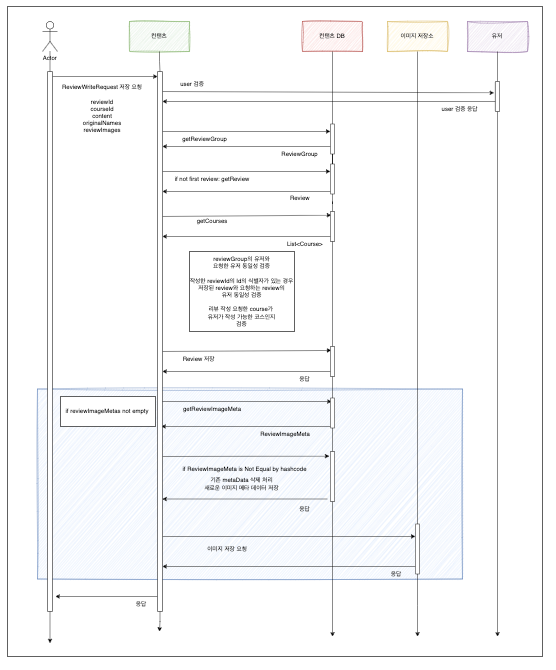
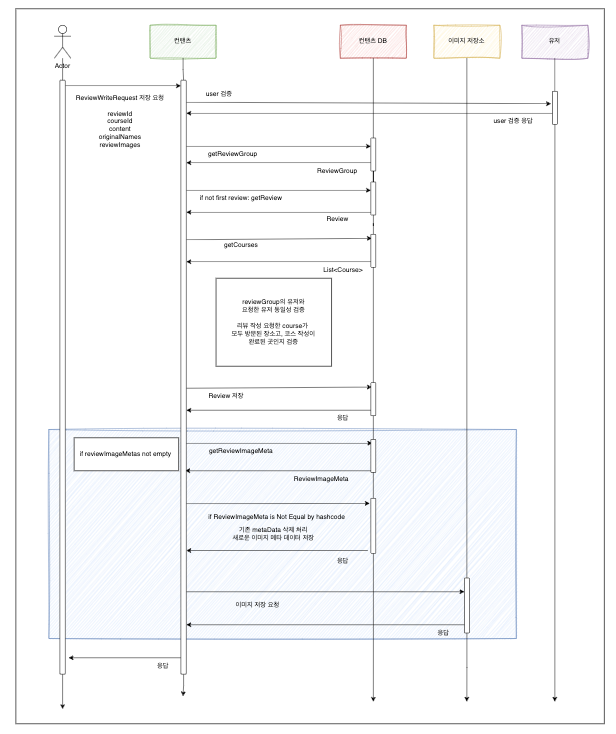
[Docs] DPLC-058: 코스에 유저 정보 제거에 따른 리드미 수정 (#60)

Changed region(s): [[0.0, 0.0, 0.9784, 0.9851], [0.0306, 0.9552, 0.9784, 1.0], [0.0612, 0.9254, 0.0917, 0.9552]]

diff --git a/readme/ReviewWrite.md b/readme/ReviewWrite.md
@@ -1,6 +1,222 @@
 # 리뷰 작성을 설명해요.
 
 ## 1. 배경
+- 유저가 데이트 코스를 등록한 후, 하나의 데이트 코스 그룹을 모두 방문하면 리뷰를 작성할 수 있어요!
+- 리뷰는 하나의 데이트 코스 그룹의 코스 단위별로 작성할 수 있어요!.
+- 리뷰는 사진들과 컨텐츠(글)로 구성되며, 유저는 글과 사진을 업로드 할 수 있어요!
 
 ## 2. 리뷰 작성 플로우
 ![img.png](image/ReviewWriteFlow.png)
+
+## 3. 리뷰 작성 플로우 설명
+- 유저는 글과 내용을 작성하여 요청해요.
+- 서버에서는 다음의 절차로 유저의 리뷰 작성 요청을 검증하고 저장해요.
+  - 정상 유저를 검증해요(유저 서버로 유저의 상태를 요청한 후, 정상 유저만 플로우가 진행돼요!)
+  - 리뷰는 작성 시점에 식별자가 생성이 돼요. 따라서, reviewId는 존재하거나 하지 않을 수 있어요.
+  - 리뷰는 데이트 코스와 1:1로 매핑이 돼요. 이를 활용하여 클라이언트로부터 courseId를 받아서, 현재 리뷰가 있는지 없는지를 파악해요.
+  - 만약 기존에 작성한 리뷰가 있다면 업데이트하고, 없다면 새로 저장해요.
+  - 리뷰 이미지는 최대 10MB 까지 저장할 수 있어요. 유저가 작성한 이미지를 SHA-256으로 해시한 후, 해시코드를 메타 데이터에 저장해요.
+    - reviewImageMeta는 리뷰를 수정할 떄마다, 이미지를 매번 덮어쓰기 하는 것이 부담이 되었어요.
+    - 따라서, 유저가 리뷰를 편집하면 기존에 저장된 reviewId, sequence(사진의 순서), hashCode(이미지의 해시코드)를 비교하여 모든 값이 동일하면 덮어쓰지 않도록 하였어요.
+  - 리뷰 이미지는 정의한 이미지 저장소(S3를 사용할 예정이에요)로 저장이 돼요.
+
+## 4. 코드 작성 - 도메인 정의
+``` kotlin
+    data class Review(
+        val reviewId: Long,
+        val userId: Long,
+        val reviewGroupId: Long,
+        val courseId: Long,
+        val content: String,
+        val createdAt: LocalDateTime = LocalDateTime.now(),
+        val modifiedAt: LocalDateTime = LocalDateTime.now(),
+    )
+```
+- Review는 식별자와, 유저 식별자, 리뷰 그룹의 식별자, 작성하는 코스의 식별자, 리뷰 내용으로 구성돼요.
+
+
+``` kotlin
+    data class ReviewImageMeta(
+        val sequence: Int,
+        val reviewId: Long,
+        val originalName: String,
+        val reviewImageHashCode: Int,
+        val reviewImageId: Long,
+        val rename: String = "${RENAME_DEFAULT}_${UUID.randomUUID()}_${originalName.parseExtension()}",
+        val imageUrl: String = "/$reviewId/$sequence/$rename",
+    )
+```
+- ReviewImageMeta는 저장할 이미지의 메타 정보를 구성하는 도메인이에요.
+- sequence(이미지의 순서), reviewId, originalName(이미지의 원래 이름), reviewImageHashCode(이미지의 해시 코드), reviewImageId(식별자), rename(새로 저장될 이름), imageUrl(이미지 경로)로 구성돼요.!
+
+
+``` kotlin
+    data class ReviewImage(
+        val image: ByteArray,
+    ) {
+        override fun equals(other: Any?): Boolean {
+            if (this === other) return true
+            if (javaClass != other?.javaClass) return false
+    
+            other as ReviewImage
+    
+            return image.contentEquals(other.image)
+        }
+    
+        override fun hashCode(): Int {
+            return sha256Digest.digest(image).contentHashCode()
+        }
+    
+        companion object {
+            private const val SHA256 = "SHA-256"
+    
+            val sha256Digest: MessageDigest by lazy {
+                MessageDigest.getInstance(SHA256)
+            }
+        }
+    }
+```
+- ReviewImage는 바이트 배열로 구성이 되고, 동일성 검증을 위해 해시코드를 이용해요.!
+- SHA-256으로 해시화한 후, 해시코드로 동일성을 검증해요.
+- 앞 서 정의한 ReviewImageHashCode는 ReviewImage의 해시화한 값이 저장되게 돼요!
+
+## 5. API 정의
+
+- 리뷰 작성 API에 필요한 Request는 하단처럼 정의하였어요!
+``` kotlin
+    data class ReviewWriteApiRequest(
+        @JsonProperty("reviewId") val reviewId: Long,
+        @JsonProperty("courseId") val courseId: Long,
+        @JsonProperty("content") val content: String,
+        @JsonProperty("originalNames") val originalNames: List<String>,
+        @JsonProperty("reviewImageIds") val reviewImageIds: List<Long>,
+        val reviewImages: List<MultipartFile>,
+    ) {
+        init {
+            require(reviewImages.size == originalNames.size && originalNames.size == reviewImageIds.size) {
+                throw ContentException(ContentExceptionCode.BAD_REQUEST_REVIEW)
+            }
+
+            require(reviewImages.sumOf { it.size } <= 10 * 1024 * 1024) {
+                throw ContentException(ContentExceptionCode.BAD_REQUEST_REVIEW_IMAGE_SIZE)
+            }
+        }
+    }
+```
+- 리뷰 이미지의 파일 크기는 최대 10MB를 만족해야해요!
+- 이미지의 개수와, 이미지의 원래 이름 개수, 리뷰 이미지의 식별자의 개수(정책상 default = 0L)는 동일해야해요!
+
+``` kotlin
+    private fun createReviewImages(reviewImages: List<MultipartFile>): List<ReviewImage> {
+        return reviewImages.map {
+            ReviewImage(
+                image = it.bytes,
+            )
+        }
+    }
+```
+- 유저에게 받은 파일은 바이트 배열로 바꿔서 List<ReviewImage>를 생성해요.
+
+``` kotlin
+    private fun createReviewImageMeta(
+        reviewImages: List<ReviewImage>,
+        reviewWriteApiRequest: ReviewWriteApiRequest
+    ): List<ReviewImageMeta> {
+        return reviewImages.mapIndexed { index, reviewImage ->
+            ReviewImageMeta(
+                sequence = index + 1,
+                reviewId = reviewWriteApiRequest.reviewId,
+                originalName = reviewWriteApiRequest.originalNames[index],
+                reviewImageHashCode = reviewImage.hashCode(),
+                reviewImageId = reviewWriteApiRequest.reviewImageIds[index],
+            )
+        }
+    }
+```
+- 생성한 reviewImages와 유저의 요청으로 부터 받은 reviewWriteApiRequest로 List<ReviewImageMeta>를 생성해요!
+
+``` kotlin
+    private fun createReview(reviewWriteApiRequest: ReviewWriteApiRequest, userId: Long, reviewGroupId: Long): Review {
+        return Review.from(
+            reviewId = reviewWriteApiRequest.reviewId,
+            userId = userId,
+            reviewGroupId = reviewGroupId,
+            courseId = reviewWriteApiRequest.courseId,
+            content = reviewWriteApiRequest.content,
+        )
+    }
+```
+- 마지막으로 리뷰의 내용에 해당하는 Review를 요청으로부터 생성해요.
+
+``` kotlin
+    @PostMapping
+    fun writeReview(
+        @RequestHeader("UserId") userId: Long,
+        @PathVariable("reviewGroupId") reviewGroupId: Long,
+        @ModelAttribute reviewWriteApiRequest: ReviewWriteApiRequest,
+    ): ResponseEntity<Unit> {
+        val user = userVerifyService.verifyNormalUserAndGet(userId)
+
+        val review = createReview(reviewWriteApiRequest, user.userId, reviewGroupId)
+
+        val reviewImages = createReviewImages(reviewWriteApiRequest.reviewImages)
+
+        val reviewImageMetas = createReviewImageMeta(
+            reviewImages = reviewImages,
+            reviewWriteApiRequest = reviewWriteApiRequest,
+        )
+
+        reviewAndImageService.writeReviewAndImage(
+            review = review,
+            reviewImages = reviewImages,
+            reviewImageMetas = reviewImageMetas
+        )
+
+        return ResponseEntity.ok().build()
+    }
+```
+- 앞 서 정의한 함수를 바탕으로, 유저 검증(공통된 함수라 설명에서는 제외하였어요!), 리뷰 및 리뷰 이미지, 리뷰 메타정보를 생성하고 서비스에 인자로 넣어 서비스를 호출해요!
+
+## 6. ReviewAndImageService
+
+``` kotlin
+    @Service
+    @Transactional
+    class ReviewAndImageService(
+        private val reviewQueryPort: ReviewQueryPort,
+        private val reviewGroupQueryPort: ReviewGroupQueryPort,
+        private val courseQueryPort: CourseQueryPort,
+        private val reviewWriteUseCase: ReviewWriteUseCase,
+        private val reviewImageMetaCommandUseCase: ReviewImageMetaCommandUseCase,
+    ) {
+```
+- 리뷰와 이미지를 저장하는 역할을 수행하는 서비스에요!
+- 해당 서비스는 필요한 검증을 수행하고, ReviewWriteUseCase, ReviewImageMetaCommandUseCase를 호출해요.
+
+``` kotlin
+    private fun verifyInvalidReviewWrite(user: User, review: Review, reviewGroup: ReviewGroup) {
+        verifyReviewGroupOwner(reviewGroup.userId, user.userId)
+
+        verifyInvalidReviewCourse(
+            courseGroupId = reviewGroup.courseGroupId,
+            courseId = review.courseId,
+        )
+    }
+
+    private fun verifyReviewGroupOwner(reviewGroupUserId: Long, userId: Long) {
+        require(reviewGroupUserId == userId) { throw ContentException(ContentExceptionCode.USER_INVALID) }
+    }
+
+    private fun verifyInvalidReviewCourse(courseGroupId: Long, courseId: Long) {
+        val courses = courseQueryPort
+            .getCoursesByGroupId(courseGroupId)
+
+        require(
+            courses.any { courseId == it.courseId && it.visitedStatus && it.courseStage == CourseStage.PLACE_FINISH }
+        ) {
+            throw ContentException(ContentExceptionCode.BAD_REQUEST_REVIEW)
+        }
+    }
+```
+- 검증은 총 3가지로 구성이 돼요!
+  - 리뷰 그룹의 작성자가 요청한 실제 유저여야 해요.

diff --git a/ReadMe.md b/ReadMe.md
@@ -11,11 +11,10 @@
   - 흔히 "오늘 어디로 갈까?"를 의미하는 것으로 장소나 행동(액티비티) 등이 코스에 포함이 돼요.
     - "스타벅스 갔다가 영화보러 가자!"
     - "스타벅스", "영화"는 개별적인 장소나 행동을 의미하므로 각각 코스로 정의할 수 있어요.
-  - 코스는 작성자, 몇 번째 코스, 코스 완성 단계, 카테고리, 방문 여부 등으로 구성돼요.
+  - 코스는 몇 번째 코스, 코스 완성 단계, 카테고리, 방문 여부 등으로 구성돼요.
 ``` kotlin
   data class Course(
       val courseId: Long,
-      val userId: Long,
       val step: Int,
       val placeId: Long,
       val courseStage: CourseStage,
@@ -65,6 +64,8 @@
 - > #### [Course의 편집 가능 범위를 정의해요](https://github.com/DayPlan-Team/dayplan-cotent-api/blob/main/readme/DateCourseEditRange.md)
   
 - > #### [리뷰 작성을 정의해요!](https://github.com/DayPlan-Team/dayplan-cotent-api/blob/main/readme/ReviewWriteFlow.md)
+
+- > #### [코스와 리뷰에 유저아이디 삭제(반정규화 수정)을 설명해요! 작성 중 입니다!]()
   
 <br/>
 
